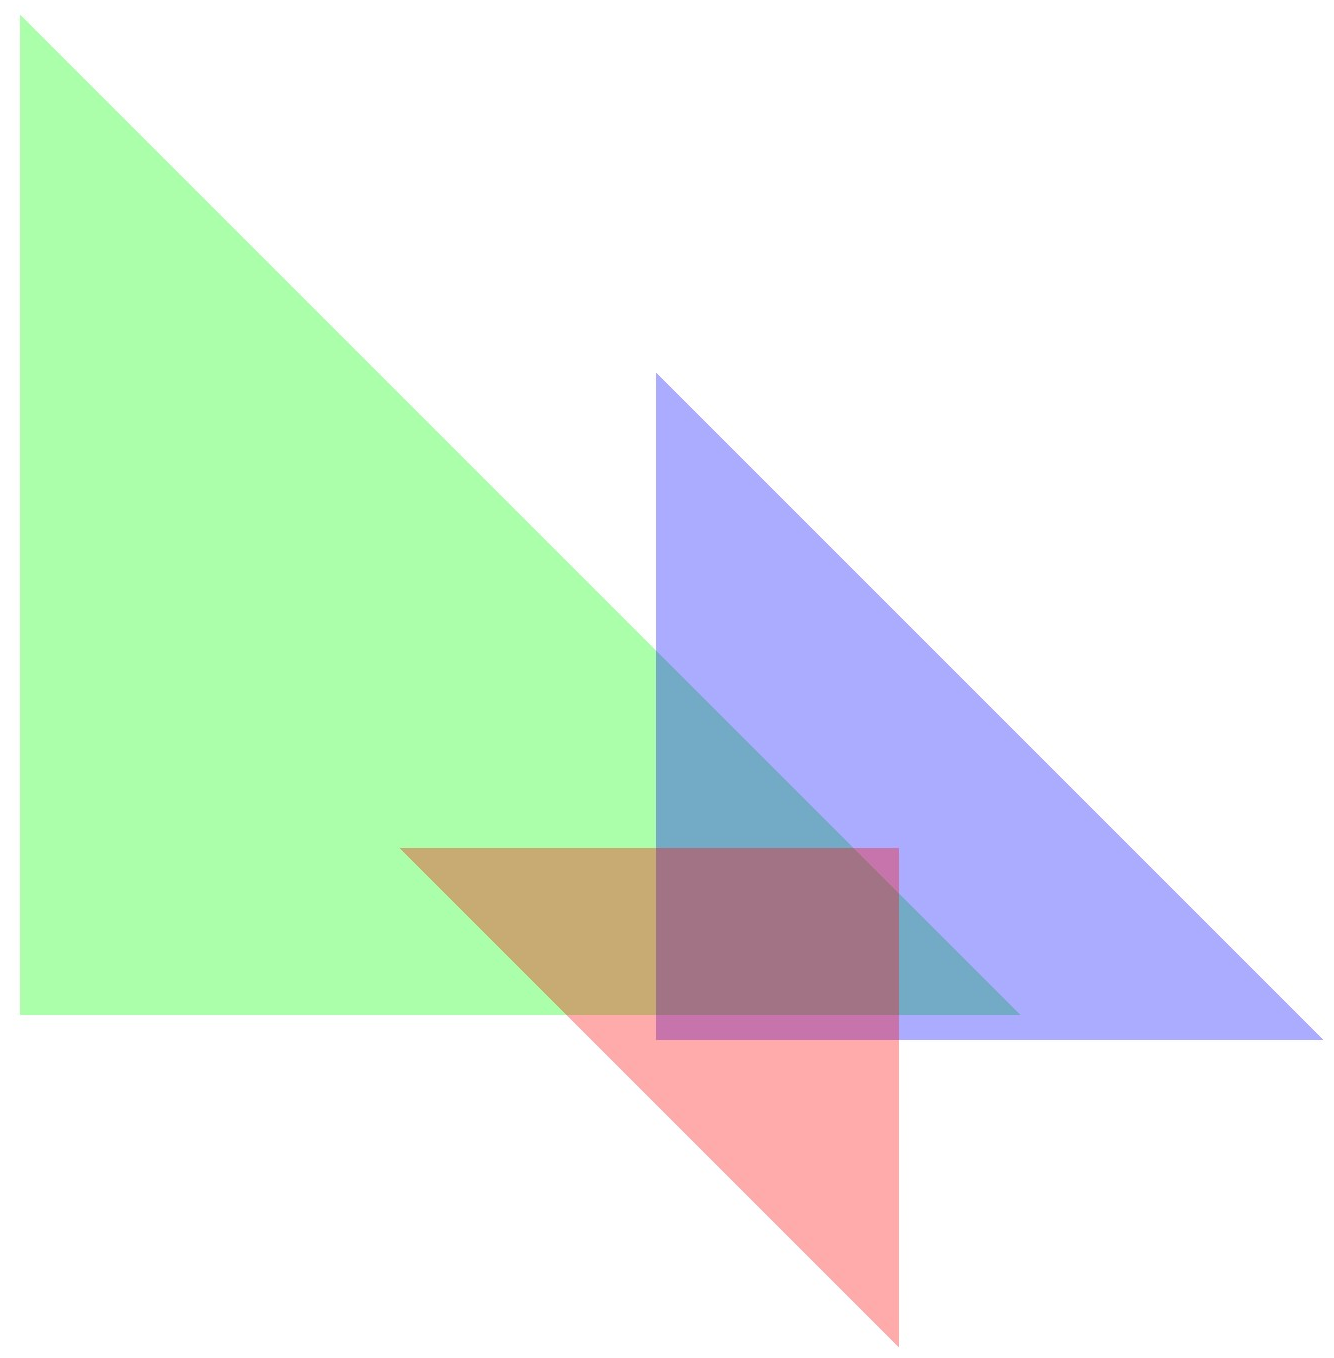
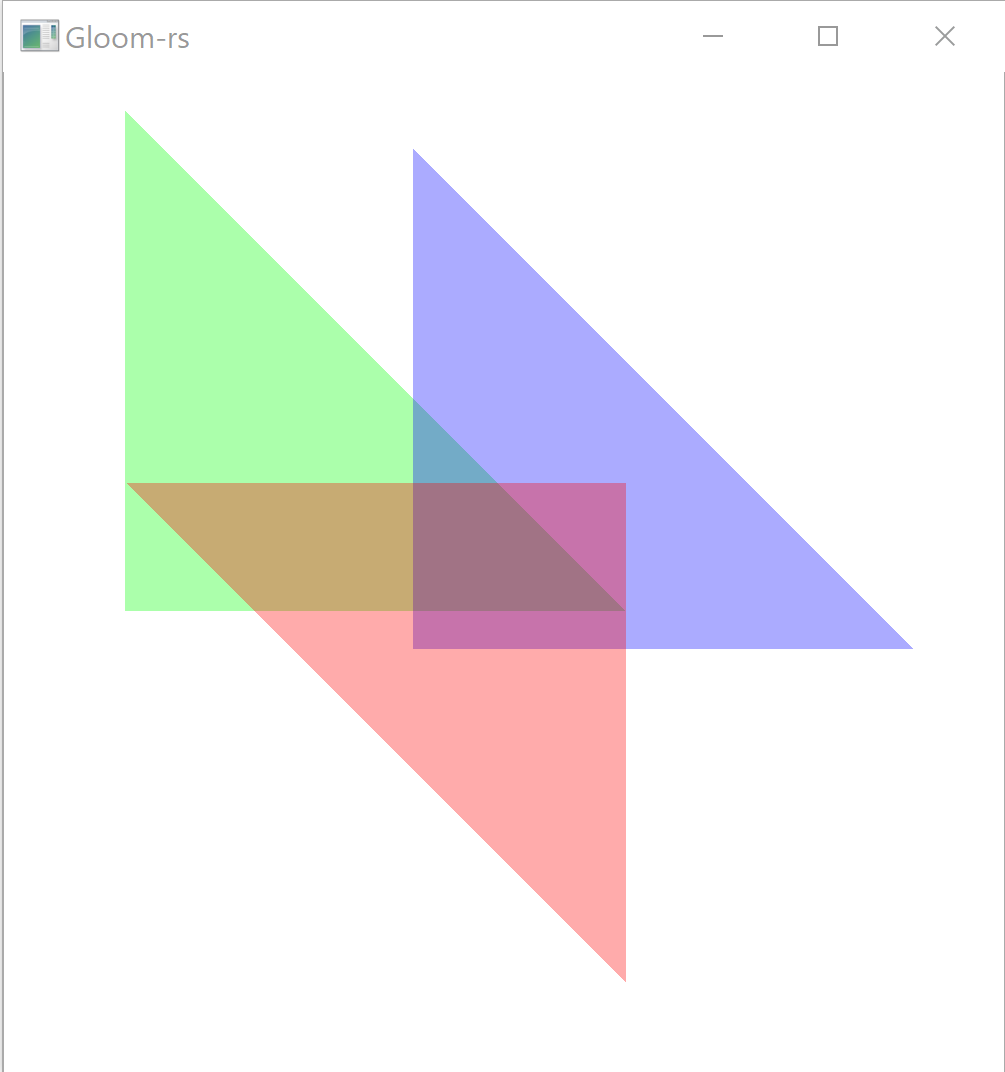
report task 2. Enabled DEPTH_TEST

diff --git a/src/main.rs b/src/main.rs
@@ -26,8 +26,8 @@ use glutin::event::{
 use glutin::event_loop::ControlFlow;
 
 // initial window size
-const INITIAL_SCREEN_W: u32 = 800;
-const INITIAL_SCREEN_H: u32 = 800;
+const INITIAL_SCREEN_W: u32 = 400;
+const INITIAL_SCREEN_H: u32 = 400;
 
 // == // Helper functions to make interacting with OpenGL a little bit prettier. You *WILL* need these! // == //
 
@@ -169,7 +169,7 @@ fn main() {
 
         // Set up openGL
         unsafe {
-            gl::Disable(gl::DEPTH_TEST);
+            gl::Enable(gl::DEPTH_TEST);
             gl::DepthFunc(gl::LESS);
             gl::Enable(gl::CULL_FACE);
             gl::Disable(gl::MULTISAMPLE);
@@ -240,8 +240,8 @@ fn main() {
         let mut fragment_shader_id: usize = 0;
 
         let vertex_shaders: Vec<String> = vec![
-            "./shaders/vertex/perspective.vert".to_string(),
             "./shaders/vertex/simple.vert".to_string(),
+            "./shaders/vertex/perspective.vert".to_string(),
             "./shaders/vertex/mirror.vert".to_string(),
             "./shaders/vertex/spin.vert".to_string(),
             "./shaders/vertex/affine_transform.vert".to_string(),

diff --git a/report/report-2.md b/report/report-2.md
@@ -33,17 +33,13 @@ Note: Use Q and E to change fragment shaders, A and D to change models, Y and C 
 OpenGL makes use of barycentric interpolation which, in simple terms, simply computes a weighted sum of all three color values with the distances from the fragement to the vertices being the weight. [SO](https://stackoverflow.com/questions/13210998/opengl-colour-interpolation13211355) [Wikipedia](https://en.wikipedia.org/wiki/Barycentric_coordinate_system#Barycentric_coordinates_on_triangles)
 
 # Task 2
-In this task we will focus on 3 overlapping triangles with different colors and a given transparency. The triangles are in different $z$ planes. To see the effect of alpha blending, we need to deactivate the depth test so that all pixels are drawn :
-
-```glsl
-gl::Disable(gl::DEPTH_TEST);
-```
+In this task we will focus on 3 overlapping triangles with different colors and a given transparency. The triangles are in different $z$ planes. 
 
 **a)**
 
 First, we make sure that the triangles are drawn back to front. In our case, the order is **red** $\rightarrow$ **green** $\rightarrow$ **blue** as shown in the picture below :
 
-![](img/triangles_blend_back_to_front.jpg)
+![](img/triangles_back_to_front.png)
 
 The colors of the triangles are :
 - pure red `(1,0,0)`, 33% transparency
@@ -52,7 +48,7 @@ The colors of the triangles are :
   
 The part where the triangles overlap is mostly blue, which is the color of the closest triangle (last one being drawn).
 
-**b)**
+**b1)**
 
 Now we will swap the color of the triangles. The $z$ position and the drawing order of the triangles remains the same, only the color changes.
   
@@ -62,6 +58,24 @@ Now we will swap the color of the triangles. The $z$ position and the drawing or
 - **green** $\rightarrow$ **blue** $\rightarrow$ **red**
   ![](img/triangles_GBR.png)
   In this case, the overlapping area is mostly red
+
+These are expected resultes considering how OpenGL computes the color with alpha blending :
+
+$$\mathrm{Color_{new}}=\alpha_\mathrm{source}\times \mathrm{Color_{source}} + (1-\alpha_\mathrm{source})\times \mathrm{Color_{destination}}$$
+
+Here, we have the source alpha set to 33% so, on a pure white background, the color of a triangle will be white + some color which is why the triangle look very light.
+
+In the places where they overlap, the destination color is the mix of white and color mentionned above, which will be added to the new source color. For example, in the area where red and blue overlap in the last image, there is a pure blue with 33% transparency added to a light green area which results in a cyan-blue color.
+
+**b2)**
+
+Now, we will change the $z$ coordinate of the triangles without changing the color. The reference order is the one in **Task 2a** (back to front : red $\rightarrow$ green $\rightarrow$ blue)
+
+- **back** $\rightarrow$ **front** $\rightarrow$ **middle**
+  
+- **middle** $\rightarrow$ **front** $\rightarrow$ **back**
+## Issue : 2 vertices of blue triangle are completely hidden so it does not render. Need to tweak it a little i think
+
 # Task 3
 For the rest of **Task 3** the transformations will be compared to the following reference image :
 
